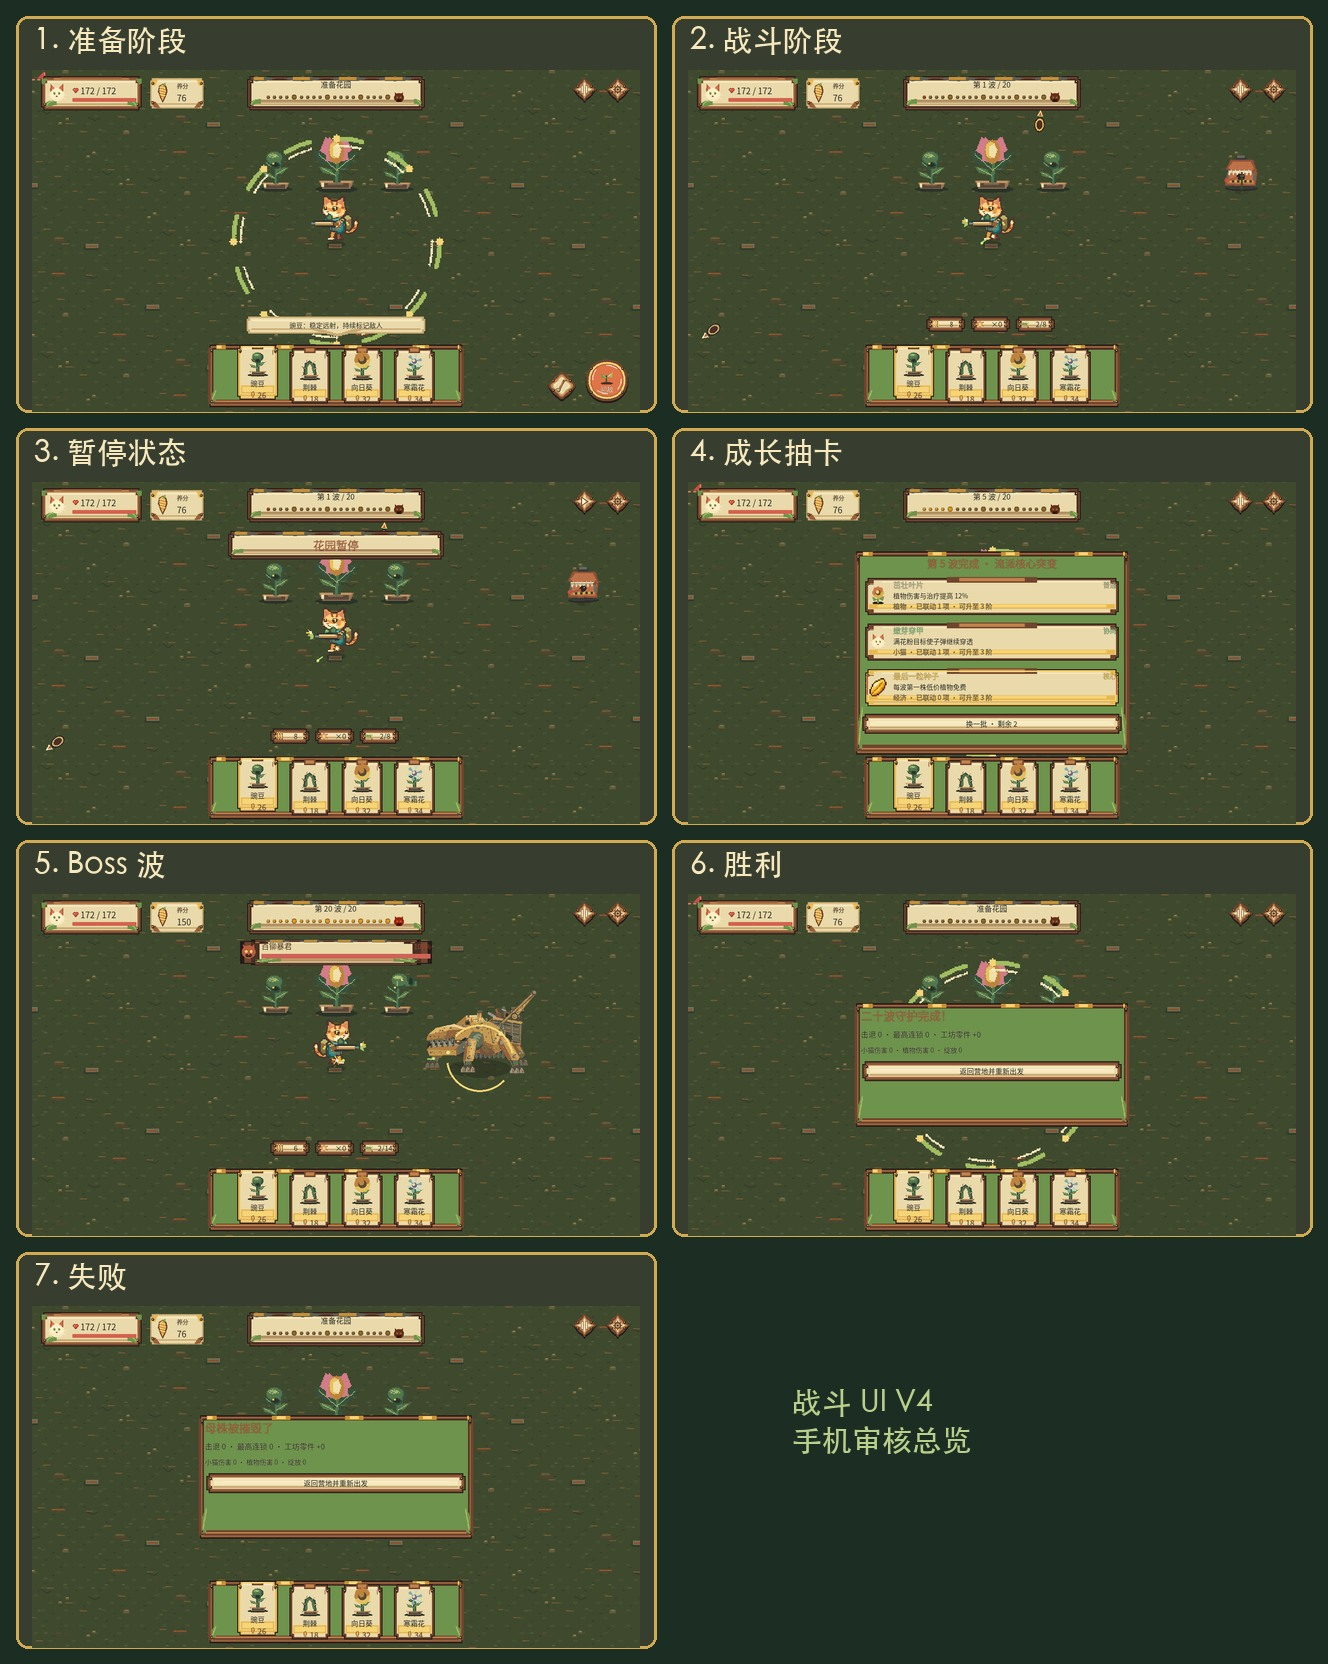
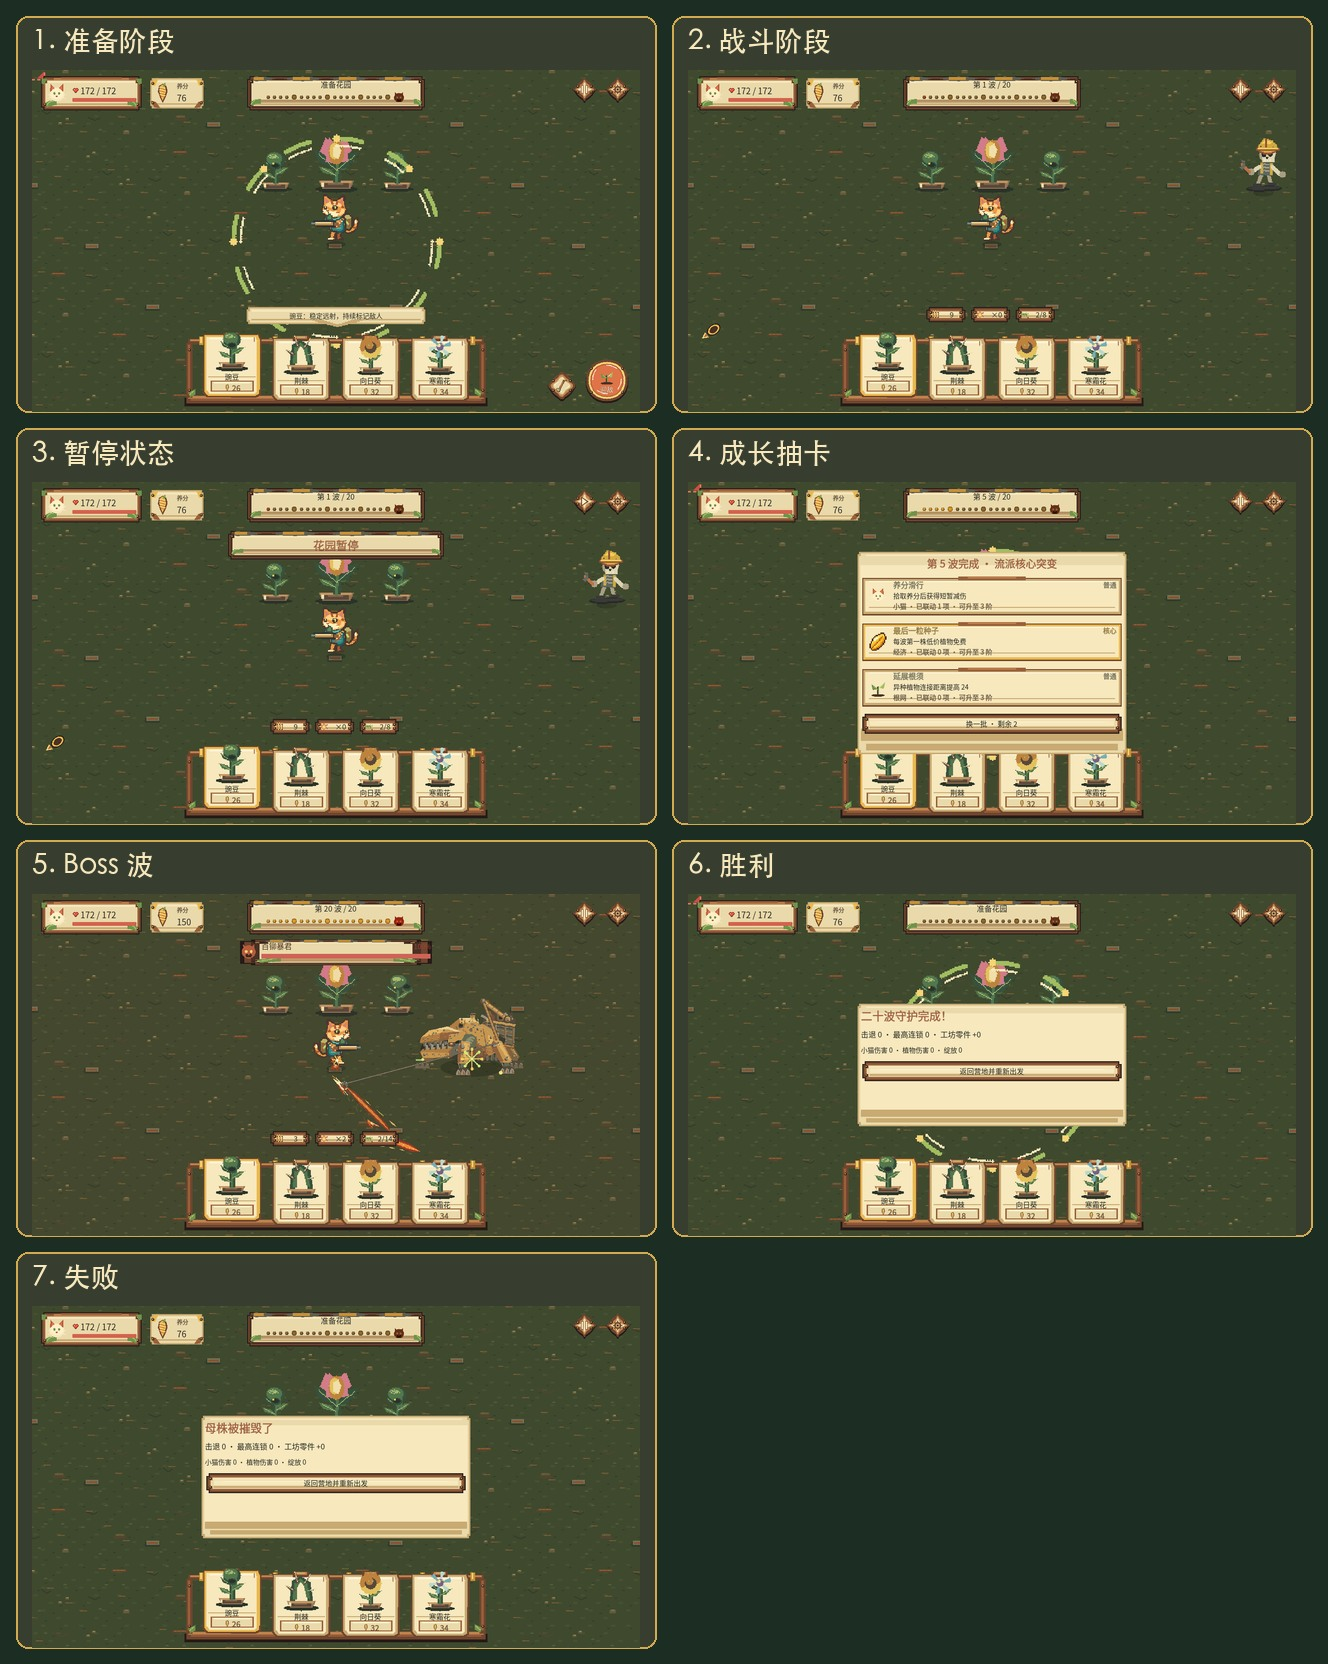
Replace green UI plates with paper cards and open wooden shelf

diff --git a/public/tools/garden-cats-review/index.html b/public/tools/garden-cats-review/index.html
@@ -1,9 +1,9 @@
-<!doctype html><html lang="zh-CN"><head><meta charset="utf-8"><meta name="viewport" content="width=device-width,initial-scale=1,viewport-fit=cover"><title>小猫守花园 · 战斗 UI V4 审核</title><style>*{box-sizing:border-box}body{margin:0;background:#162b22;color:#f6e8bd;font:16px -apple-system,BlinkMacSystemFont,"PingFang SC",sans-serif}main{max-width:980px;margin:auto;padding:18px 14px 48px}h1{font-size:22px;margin:4px 0 6px}p{margin:0 0 18px;color:#bdca9b}.overview,.card{display:block;width:100%;height:auto;border:2px solid #d6b45d;border-radius:12px;background:#263a2e}.grid{display:grid;gap:16px;margin-top:20px}.card{overflow:hidden}.card img{display:block;width:100%;height:auto}.card strong{display:block;padding:10px 12px;color:#f6e8bd}@media(min-width:760px){.grid{grid-template-columns:1fr 1fr}}</style></head><body><main><h1>小猫守花园 · 战斗 UI V4</h1><p>点击任意画面可在手机中放大查看。</p><a href="overview.jpg"><img class="overview" src="overview.jpg" alt="七种状态总览"></a><section class="grid">
-<a class="card" href="states/01-ready.png"><strong>1. 准备阶段</strong><img src="states/01-ready.png"></a>
-<a class="card" href="states/02-fight.png"><strong>2. 战斗阶段</strong><img src="states/02-fight.png"></a>
-<a class="card" href="states/03-paused.png"><strong>3. 暂停状态</strong><img src="states/03-paused.png"></a>
-<a class="card" href="states/04-growth.png"><strong>4. 成长抽卡</strong><img src="states/04-growth.png"></a>
-<a class="card" href="states/05-boss.png"><strong>5. Boss 波</strong><img src="states/05-boss.png"></a>
-<a class="card" href="states/06-victory.png"><strong>6. 胜利</strong><img src="states/06-victory.png"></a>
-<a class="card" href="states/07-defeat.png"><strong>7. 失败</strong><img src="states/07-defeat.png"></a>
+<!doctype html><html lang="zh-CN"><head><meta charset="utf-8"><meta name="viewport" content="width=device-width,initial-scale=1,viewport-fit=cover"><title>小猫守花园 · 战斗 UI V5 审核</title><style>*{box-sizing:border-box}body{margin:0;background:#162b22;color:#f6e8bd;font:16px -apple-system,BlinkMacSystemFont,"PingFang SC",sans-serif}main{max-width:980px;margin:auto;padding:18px 14px 48px}h1{font-size:22px;margin:4px 0 6px}p{margin:0 0 18px;color:#bdca9b}.overview,.card{display:block;width:100%;height:auto;border:2px solid #d6b45d;border-radius:12px;background:#263a2e}.grid{display:grid;gap:16px;margin-top:20px}.card{overflow:hidden}.card img{display:block;width:100%;height:auto}.card strong{display:block;padding:10px 12px;color:#f6e8bd}@media(min-width:760px){.grid{grid-template-columns:1fr 1fr}}</style></head><body><main><h1>小猫守花园 · 战斗 UI V5</h1><p>点击任意画面可在手机中放大查看。</p><a href="overview.jpg?v=5"><img class="overview" src="overview.jpg?v=5" alt="七种状态总览"></a><section class="grid">
+<a class="card" href="states/01-ready.png?v=5"><strong>1. 准备阶段</strong><img src="states/01-ready.png?v=5"></a>
+<a class="card" href="states/02-fight.png?v=5"><strong>2. 战斗阶段</strong><img src="states/02-fight.png?v=5"></a>
+<a class="card" href="states/03-paused.png?v=5"><strong>3. 暂停状态</strong><img src="states/03-paused.png?v=5"></a>
+<a class="card" href="states/04-growth.png?v=5"><strong>4. 成长抽卡</strong><img src="states/04-growth.png?v=5"></a>
+<a class="card" href="states/05-boss.png?v=5"><strong>5. Boss 波</strong><img src="states/05-boss.png?v=5"></a>
+<a class="card" href="states/06-victory.png?v=5"><strong>6. 胜利</strong><img src="states/06-victory.png?v=5"></a>
+<a class="card" href="states/07-defeat.png?v=5"><strong>7. 失败</strong><img src="states/07-defeat.png?v=5"></a>
 </section></main></body></html>
